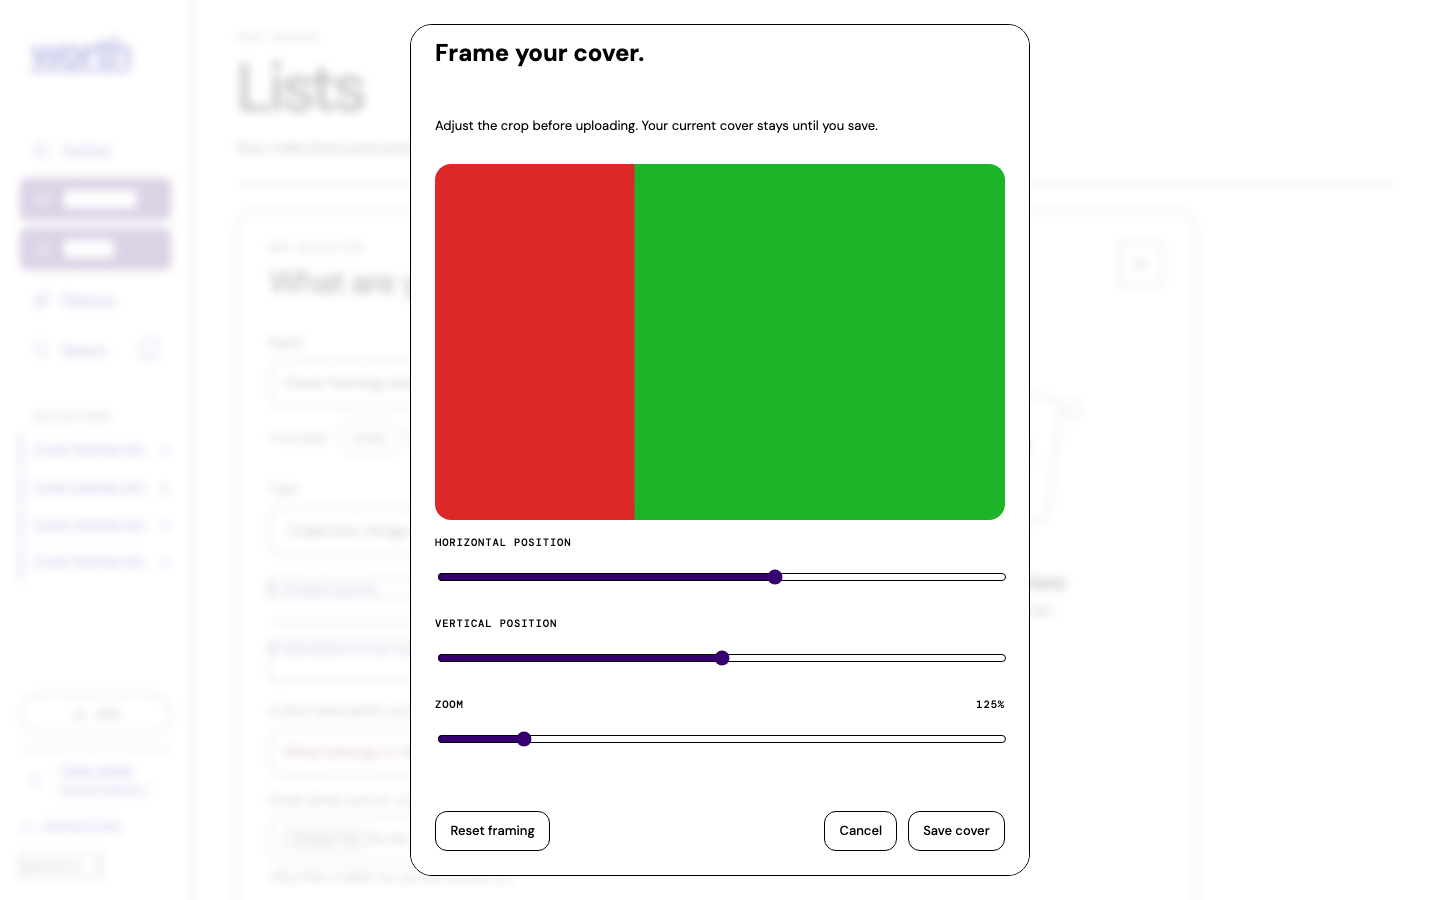
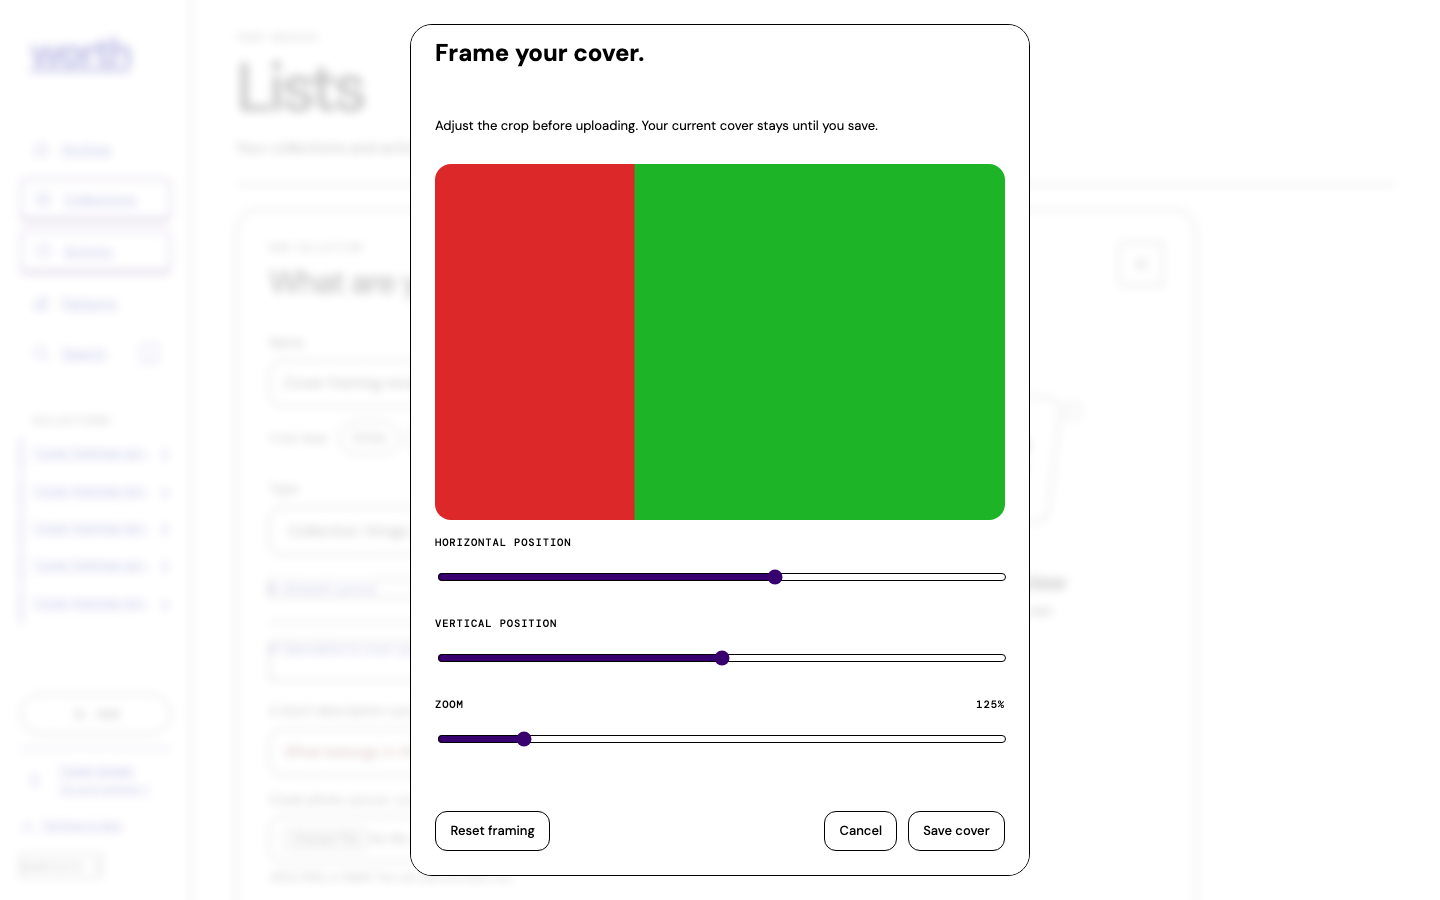
fix: keep high contrast selections readable

Changed region(s): [[0.0, 0.1867, 0.125, 0.3111]]

diff --git a/src/cabinet.css b/src/cabinet.css
@@ -1796,8 +1796,7 @@ textarea::selection {
   }
   :is([aria-pressed='true'], [aria-selected='true'], [aria-current='page']) {
     border: 2px solid Highlight !important;
-    background: Highlight !important;
-    color: HighlightText !important;
+    border-bottom-width: 4px !important;
   }
   :focus-visible {
     outline: 2px dashed Highlight !important;

diff --git a/art/ui-qa/details2-oct15/README.md b/art/ui-qa/details2-oct15/README.md
@@ -16,3 +16,6 @@ It checks reset, zoom, saved image pixels, cancellation and narrow widths.
 Forced colors use the browser's system palette for fields, selected choices and
 keyboard focus. These captures emulate high contrast; physical-device assistive
 technology and native autofill remain device checks.
+
+High-contrast selections use a heavier bottom rule while labels retain native
+system text colors. This avoids text backplates obscuring a filled selection.
